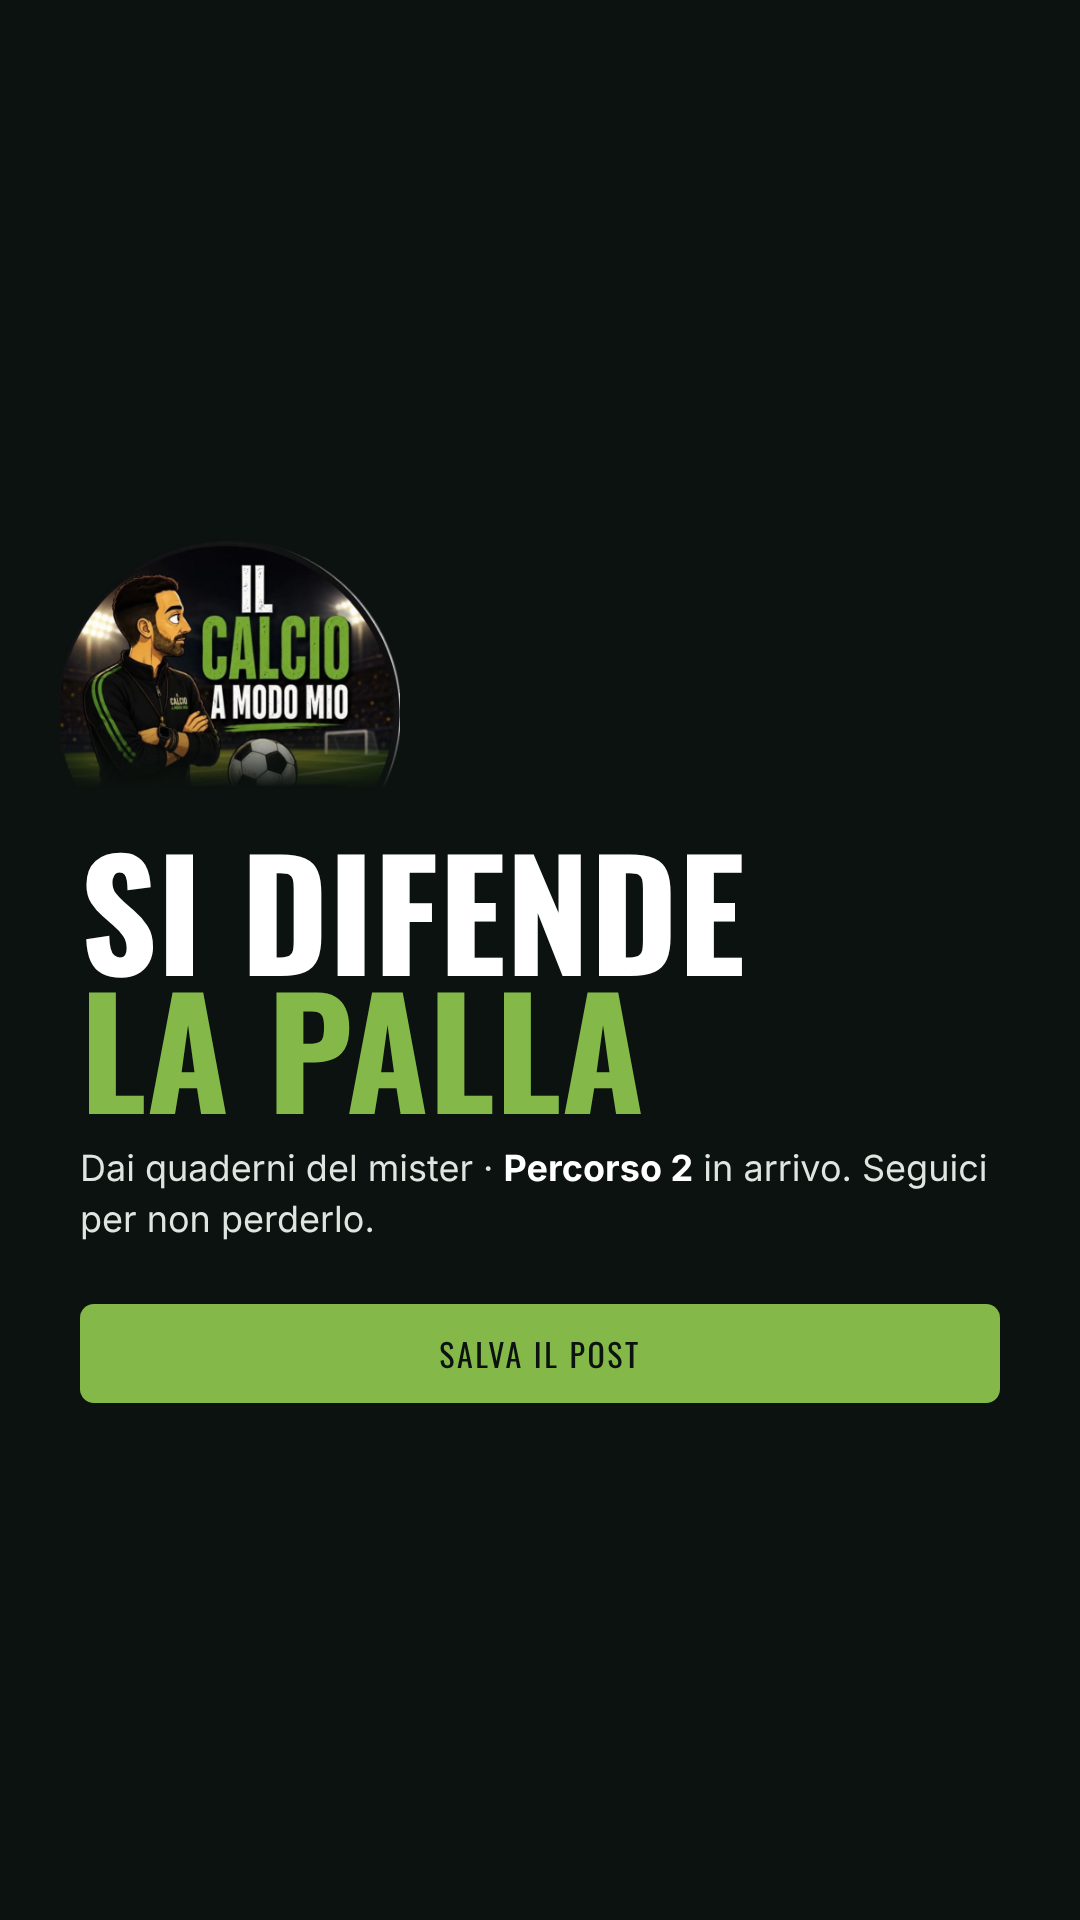
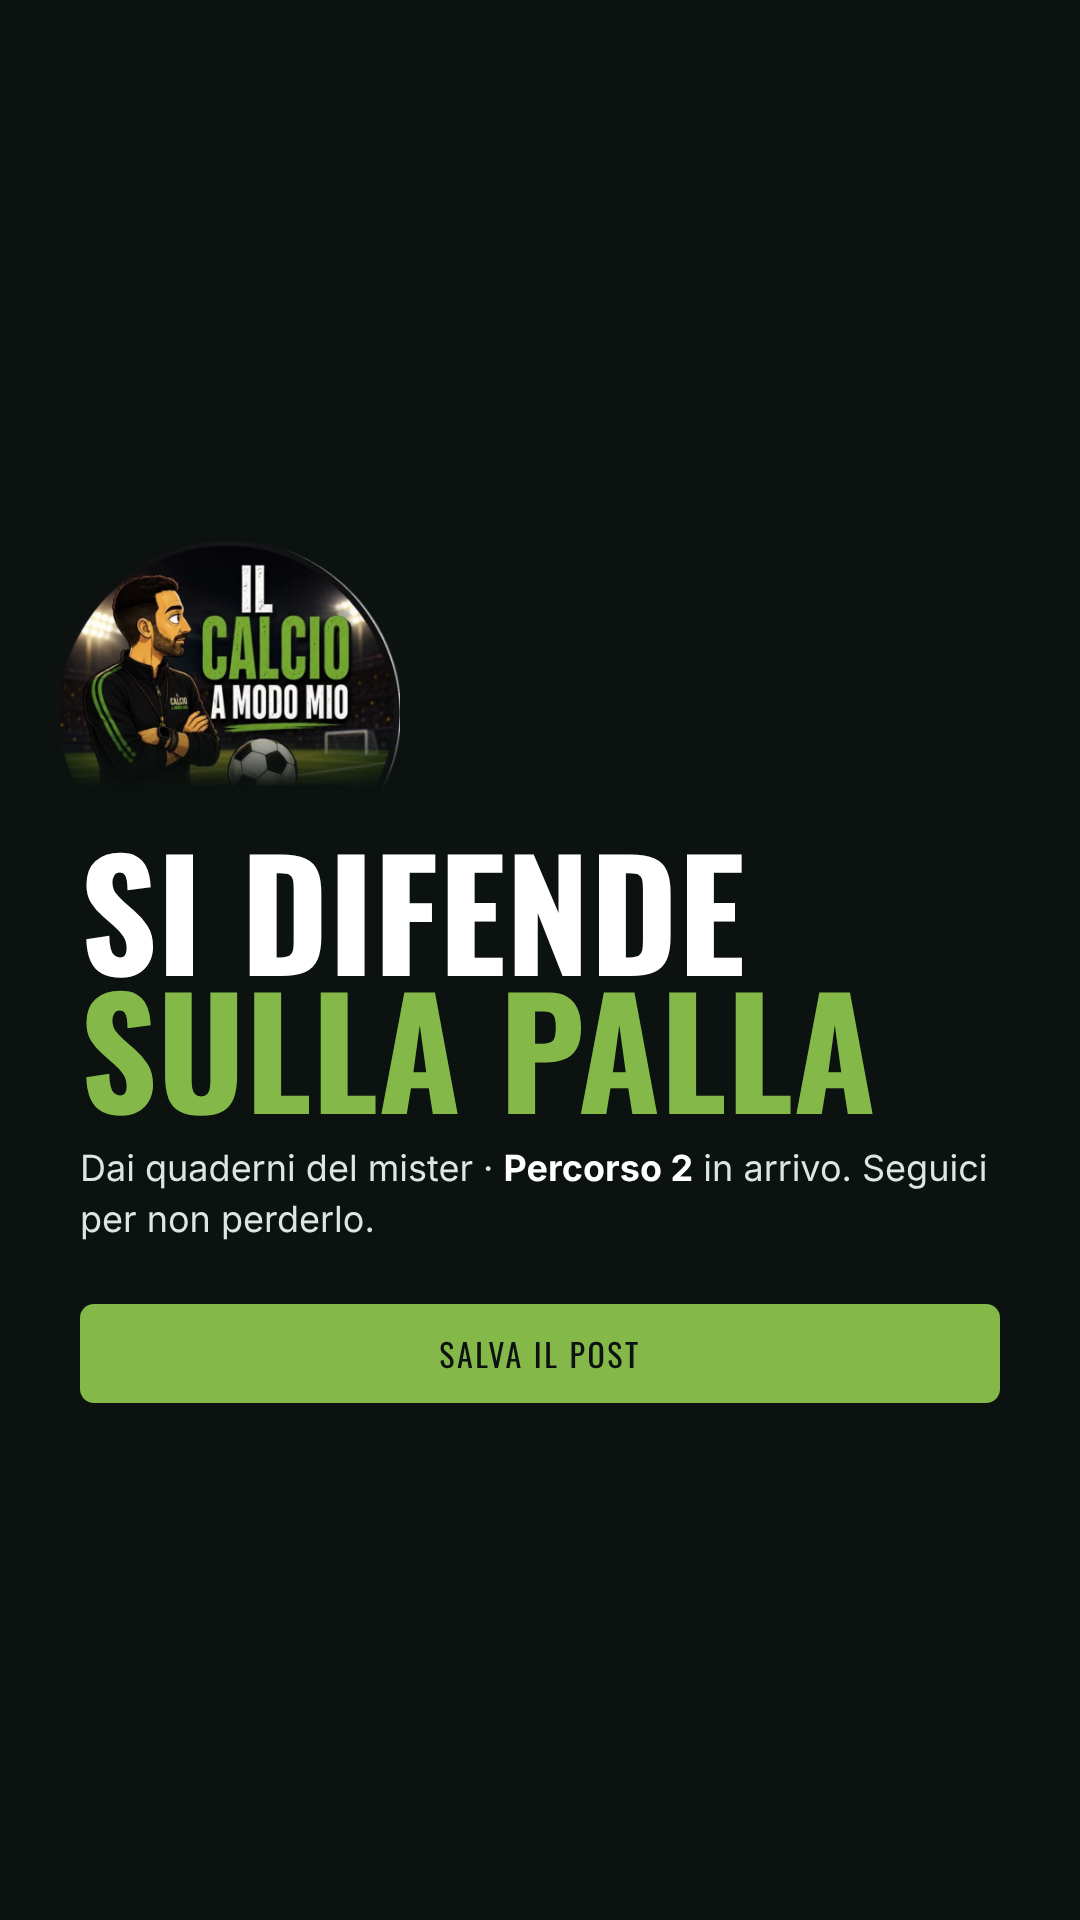
Post 12: si difende sulla palla, non sugli uomini (correzione dell'allenatore)
Claude-Session: https://claude.ai/code/session_01Y6imChDnJpMKHUHGGzDa7m

Changed region(s): [[0.0611, 0.5, 0.4583, 0.5938], [0.4583, 0.5, 0.825, 0.5938]]

diff --git a/marketing/social/post-solo12-4x5.html b/marketing/social/post-solo12-4x5.html
@@ -85,7 +85,7 @@ h1, h2 { font-family: Oswald, sans-serif; font-weight: 700; text-transform: uppe
   
   <div class="txt">
     <div class="kick">Dai quaderni del mister</div>
-    <h1 style="font-size:112px">Si difende la palla<span>non gli uomini</span></h1>
+    <h1 style="font-size:112px">Si difende sulla palla<span>non sugli uomini</span></h1>
     <p class="sub">Il primo principio della <b>linea che difende</b>.</p>
     <div class="scorri">Scorri →</div>
   </div>
@@ -119,7 +119,7 @@ h1, h2 { font-family: Oswald, sans-serif; font-weight: 700; text-transform: uppe
 </section>
 <section class="slide fine">
   <img class="logo2" src="../../materiale/brand/logo-cerchio.png">
-  <h1>Si difende<span>la palla</span></h1>
+  <h1>Si difende<span>sulla palla</span></h1>
   <p class="sub">Dai quaderni del mister · <b>Percorso 2</b> in arrivo.<br><br>Le novità escono prima sul canale WhatsApp <b>Il calcio a modo mio</b>. Link in bio.</p>
   <div class="azioni"><div>Salva il post</div></div>
 </section></body></html>

diff --git a/marketing/social/post-solo12-9x16.html b/marketing/social/post-solo12-9x16.html
@@ -85,7 +85,7 @@ h1, h2 { font-family: Oswald, sans-serif; font-weight: 700; text-transform: uppe
   
   <div class="txt">
     <div class="kick">Dai quaderni del mister</div>
-    <h1 style="font-size:112px">Si difende la palla<span>non gli uomini</span></h1>
+    <h1 style="font-size:112px">Si difende sulla palla<span>non sugli uomini</span></h1>
     <p class="sub">Il primo principio della <b>linea che difende</b>.</p>
     <div class="scorri">Scorri →</div>
   </div>
@@ -119,7 +119,7 @@ h1, h2 { font-family: Oswald, sans-serif; font-weight: 700; text-transform: uppe
 </section>
 <section class="slide fine">
   <img class="logo2" src="../../materiale/brand/logo-cerchio.png">
-  <h1>Si difende<span>la palla</span></h1>
+  <h1>Si difende<span>sulla palla</span></h1>
   <p class="sub">Dai quaderni del mister · <b>Percorso 2</b> in arrivo. Seguici per non perderlo.</p>
   <div class="azioni"><div>Salva il post</div></div>
 </section></body></html>

diff --git a/marketing/social/genera-post.py b/marketing/social/genera-post.py
@@ -415,7 +415,7 @@ POST = [
     ),
     dict(
         n=12, senza_foto=True, tema="scuro",
-        gancio="Si difende la palla<span>non gli uomini</span>", h1style="font-size:112px",
+        gancio="Si difende sulla palla<span>non sugli uomini</span>", h1style="font-size:112px",
         sub="Il primo principio della <b>linea che difende</b>.",
         kick="Dai quaderni del mister", marchio="DAI QUADERNI DEL MISTER",
         custom=[
@@ -425,7 +425,7 @@ POST = [
             dict(kicker="Domanda", titolo="E i tuoi due difensori?",
                  html='<p class="desc" style="font-size:52px;line-height:1.3;margin-top:80px">Quando arriva la palla, <b>chi esce</b>?<br><br>E l’altro, <b>dove va</b>?</p>'),
         ],
-        fine_h1="Si difende<span>la palla</span>",
+        fine_h1="Si difende<span>sulla palla</span>",
         fine_sub="Dai quaderni del mister · <b>Percorso 2</b> in arrivo.<br><br>Le novità escono prima sul canale WhatsApp <b>Il calcio a modo mio</b>. Link in bio.",
         fine_sub_tt="Dai quaderni del mister · <b>Percorso 2</b> in arrivo. Seguici per non perderlo.",
         azioni=["Salva il post"],

diff --git a/marketing/social/testi-dei-post.md b/marketing/social/testi-dei-post.md
@@ -239,15 +239,15 @@ Con una progressione. Percorso 1, La ricerca del portiere: 7 tappe. Link in bio.
 **Didascalia TikTok**
 Palla scoperta: la linea scappa. Palla coperta: la linea accorcia. È quello che ci hanno sempre insegnato. Ma come si insegna davvero? Percorso 1, La ricerca del portiere, su Etsy: ilcalcioamodomio. #allenatore #calcio #mister #lineadifensiva
 
-## Post 12 – "Si difende la palla, non gli uomini" (martedì 3/11, 13:00, 4 slide, tema scuro)
+## Post 12 – "Si difende sulla palla, non sugli uomini" (corretto dall'allenatore il 3/11: "sulla", non "la") (martedì 3/11, 13:00, 4 slide, tema scuro)
 Primo post di preparazione al Percorso 2 (uscita 17/11). Principio dal PDF del Percorso 2: il più vicino attacca la palla, l'altro dà la copertura. Domanda e chiusura scritte da Claude. Nessuna esercitazione (niente misure, tempi o regole).
 
 **Didascalia Instagram / Facebook**
-Si difende la palla, non gli uomini.
+Si difende sulla palla, non sugli uomini.
 Il difensore più vicino attacca la palla, il compagno gli dà la copertura.
 Quando arriva la palla, chi dei tuoi due difensori esce? E l'altro dove va?
 Le novità escono prima sul canale WhatsApp «Il calcio a modo mio»: link in bio.
 #allenatore #calcio #mister #difesa #lineadifensiva
 
 **Didascalia TikTok**
-Si difende la palla, non gli uomini. Il più vicino attacca la palla, l'altro copre. E i tuoi due difensori? Salva il post. #allenatore #calcio #mister #difesa
+Si difende sulla palla, non sugli uomini. Il più vicino attacca la palla, l'altro copre. E i tuoi due difensori? Salva il post. #allenatore #calcio #mister #difesa
